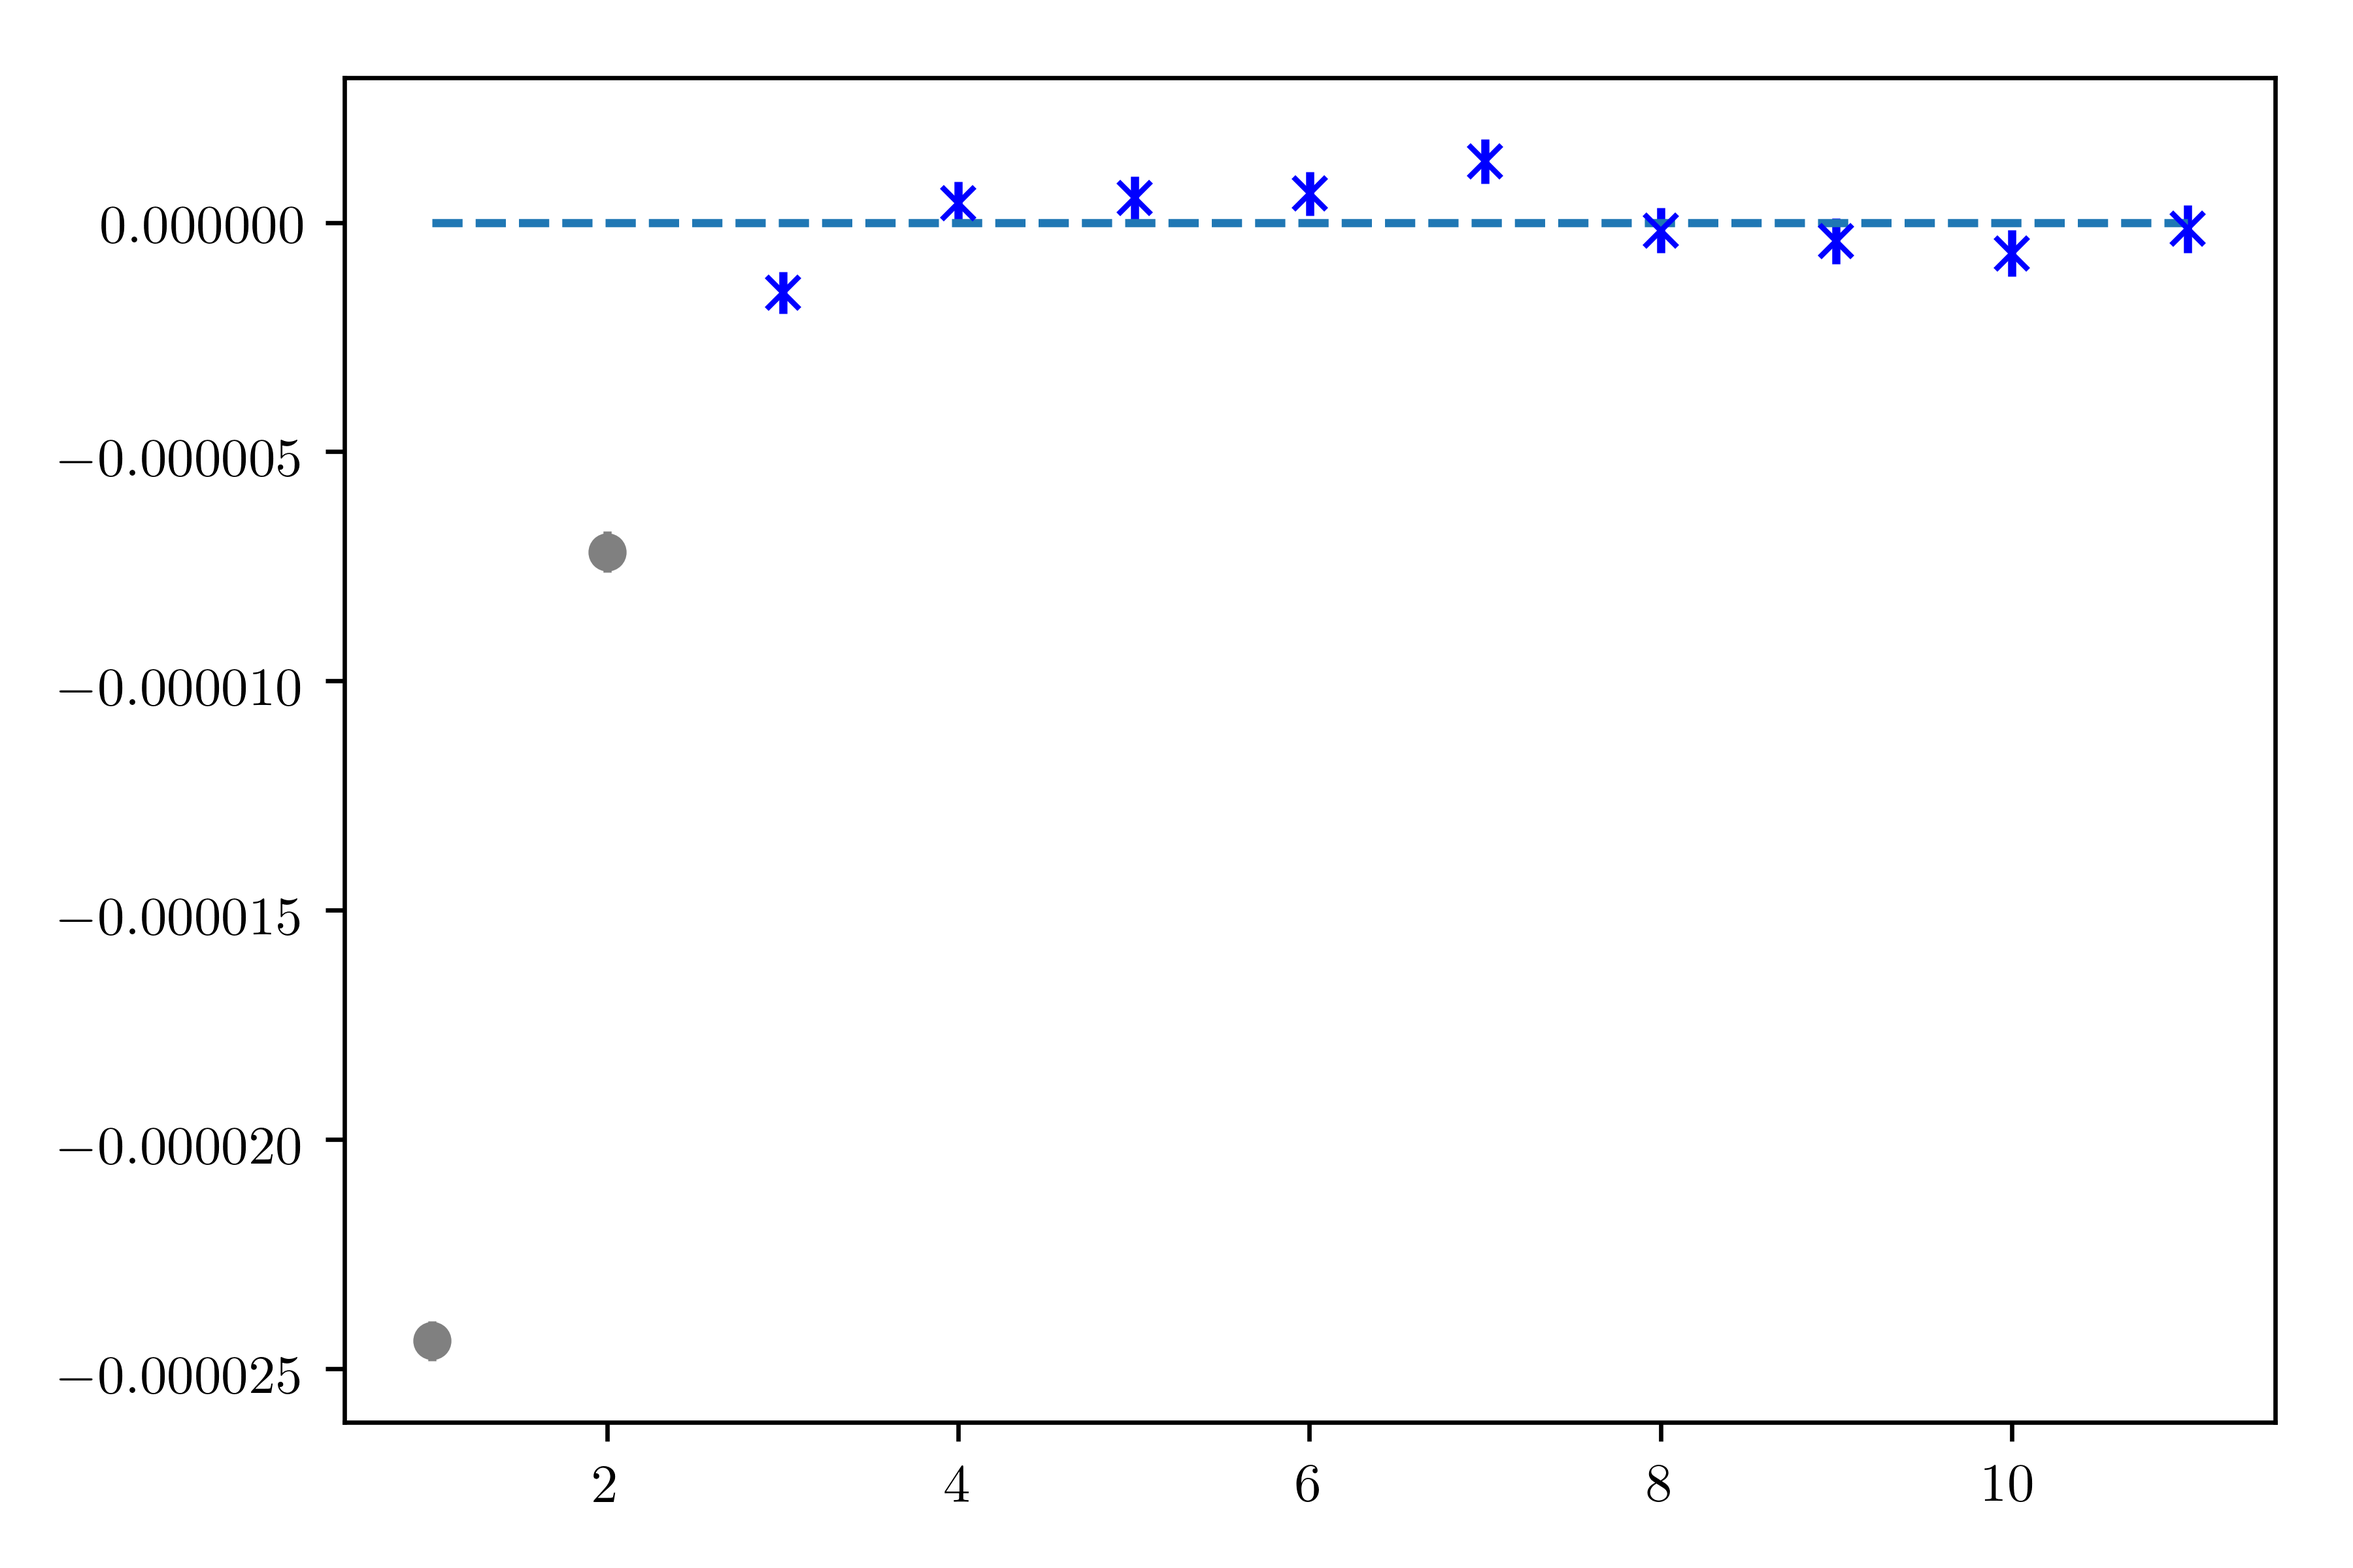
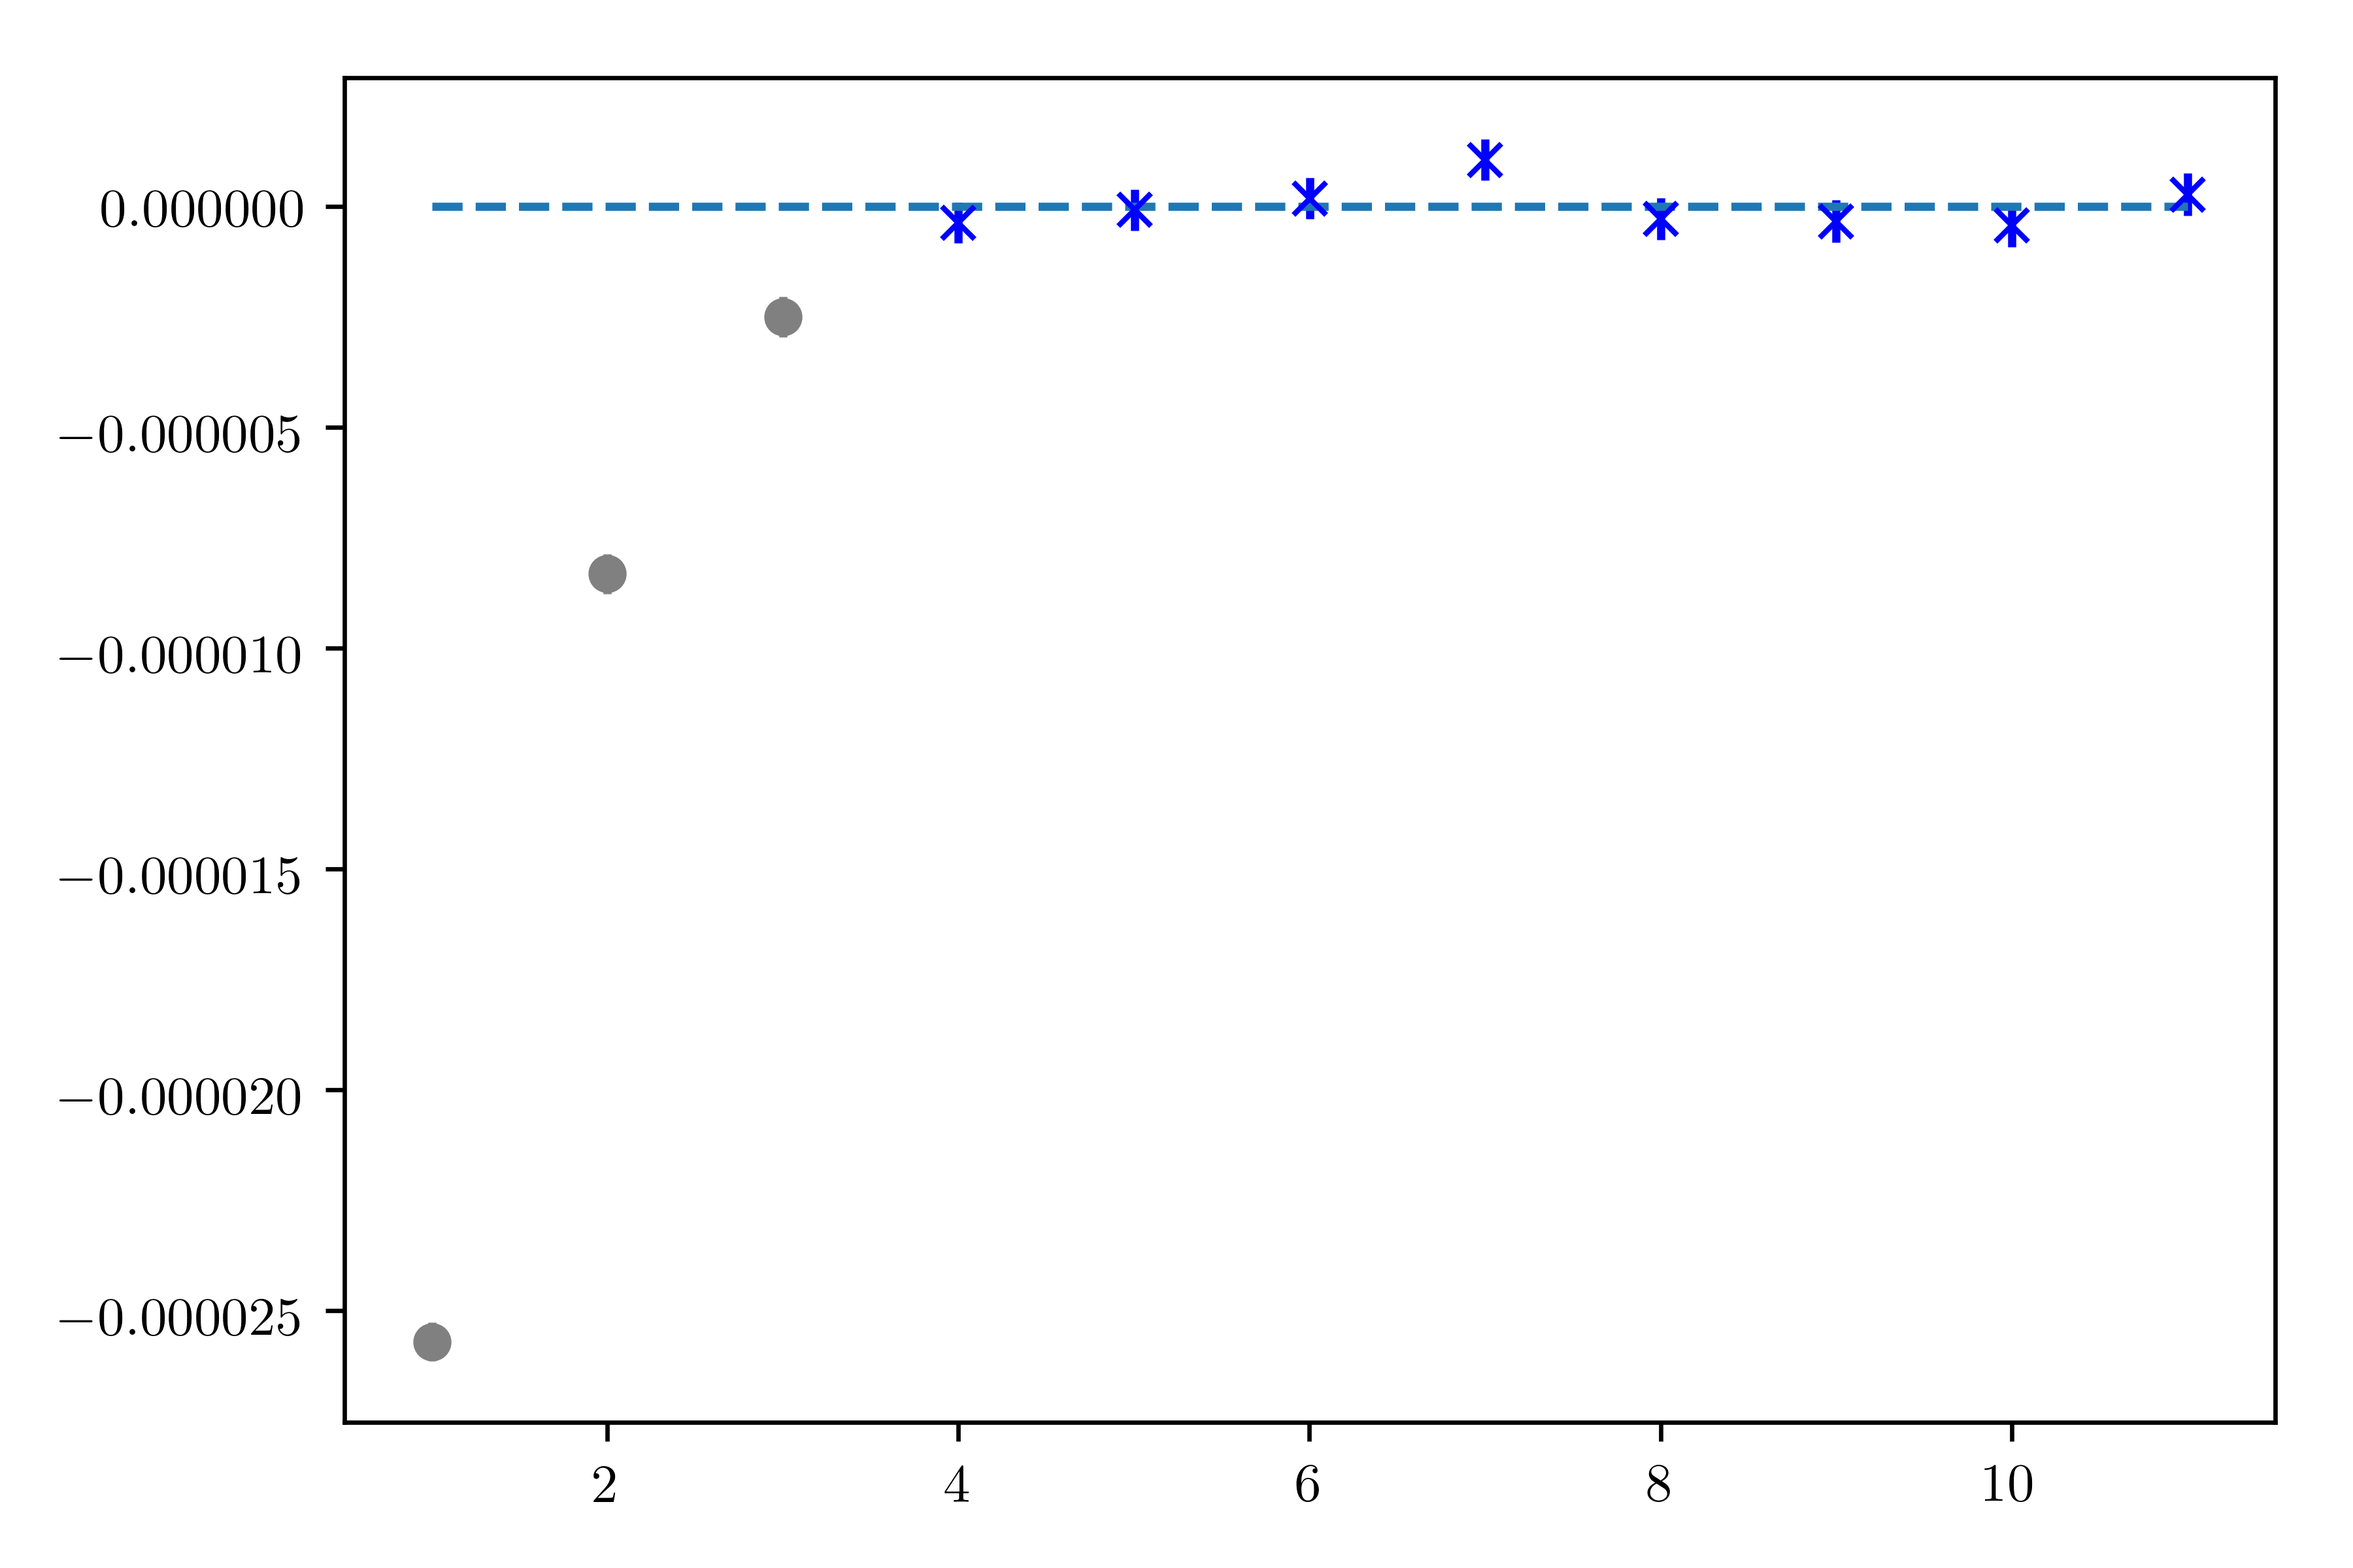
Added data from second lab day

diff --git a/mosfet_load_data_3.py b/mosfet_load_data_3.py
@@ -37,3 +37,45 @@ Vin_33 = ufloat_single_value(.204, 0.05, 'o', 'v')
 Vout_33 = ufloat_single_value(1.65, .2, 'o', 'v')
 
 A_sper_33 = - Vout_33 / Vin_33
+
+# 3.4
+
+R_in_cs_34 = res_parallel(R[2], R[4])
+R_out_cs_34 = res_parallel(r_0_12, R[5])
+
+V_in_34 = ufloat_single_value(.206, .050, 'o', 'v')
+V_out_34 = ufloat_single_value(1.27, .2, 'o', 'v')
+
+V_out_load_34 = ufloat_single_value(.728, .05, 'o', 'v')
+
+A_teor_34 = g_m_32 * res_parallel(R[5], r_0_12)
+
+R_in_34 = R[6] * V_out_34 / (V_in_34 * A_teor_34 - V_out_34)
+R_out_load_34 = R[7] * ((V_in_34 * A_teor_34 / V_out_load_34 ) - 1)
+
+# 3.5
+
+f_35 = ufloat(10**4, 0)
+
+V_in_35 = ufloat_single_value(.206, .05, 'o', 'v')
+V_out_35 = ufloat_single_value(.320, .05, 'o', 'v')
+
+A_exp_35 = - V_out_35 / V_in_35
+A_teor_35 = - g_m_32 * res_parallel(R[5], r_0_12) / (1 + g_m_32 * R[3])
+
+# 3.6
+
+f_36 = ufloat(10000, 0)
+
+V_in_36 = ufloat_single_value(.2, .05, 'o', 'v')
+V_out_36 = ufloat_single_value(.139, .05, 'o', 'v')
+V_in_noload_36 = ufloat_single_value(.194, .05, 'o', 'v')
+V_out_noload_36 = ufloat_single_value(.148, .05, 'o', 'v')
+
+A_exp_36 = V_out_36 / V_in_36
+A_exp_noload_36 = V_out_noload_36 / V_in_noload_36
+A_teor_noload_36 = g_m_32 * res_parallel(R[3], r_0_12) / (1 + g_m_32 * res_parallel(R[3], r_0_12))
+A_teor_36 = g_m_32 * res_parallel(R[3], res_parallel(r_0_12, R[7])) / (1 + g_m_32 * res_parallel(R[3], res_parallel(r_0_12, R[7])))
+
+R_out_36 = res_parallel(1/g_m_32, res_parallel(R[3], r_0_12))
+R_out_cd_36 = R[7] * (A_teor_noload_36 * V_in_36 / V_out_36 - 1)

diff --git a/mosfet_main.py b/mosfet_main.py
@@ -1,6 +1,8 @@
 from fits_multimeter_errors import *
-from mosfet_load_data_basics import *
-from mosfet_load_data_1 import *
-from mosfet_load_data_2 import *
-from mosfet_load_data_3 import *
 from mosfet_load_data_4 import *
+
+characteristic_12.full_plot('$V_{ds}$', '$I_d$', 'Punto 12: plot completo')
+characteristic_12.residuals_plot('Vds-Vteor', '$I_d$', 'Punto12: residui')
+
+characteristic_gs_13.full_plot('$V_{gs}$', '$Y$', 'Punto 13: plot completo')
+characteristic_gs_13.residuals_plot('$V_{gs}$', '$Y-Y_{model}$', 'Punto 13: residui')

diff --git a/mosfet_load_data_basics.py b/mosfet_load_data_basics.py
@@ -3,8 +3,8 @@ from fits_multimeter_errors import *
 
 # RESISTENZE
 
-R_arr = [680, 9.850, 389.3, 3.23, 783, 6.65]
-R_scale_arr = [6000, 60, 600, 6, 6000, 60]
+R_arr = [680, 9.850, 389.3, 3.23, 783, 6.65, 58.4, 5.61]
+R_scale_arr = [6000, 60, 600, 6, 6000, 60, 600, 60]
 
 R_arr = 1000 * np.array(R_arr)
 R_scale_arr = 1000 * np.array(R_scale_arr)
@@ -16,6 +16,8 @@ R_scale_arr = 1000 * np.array(R_scale_arr)
 # S = 3
 # 2 = 4 (la vogliamo da: )
 # d nuova = 5
+# i = 6
+# load = 7
 
 R = multimeter_error_array(R_arr, R_scale_arr, 'a', 'ohm')
 

diff --git a/mosfet_load_data_1.py b/mosfet_load_data_1.py
@@ -20,7 +20,7 @@ characteristic_12 = dataset(V_ds_arr_12, I_d_arr_12, 'v', 'a')
 characteristic_12.calculate_error(I_d_scale_arr_12, 'y', 'm')
 characteristic_12.calculate_error(V_ds_scale_arr_12, 'x', 'a')
 
-characteristic_12.point_ignore = np.array([0, 0, 0, 0, 0, 0,
+characteristic_12.point_ignore = np.array([1, 0, 0, 0, 0, 0,
                                      0, 0, 0, 0, 0])
 
 m_12, q_12 = characteristic_12.fit_uarray()

diff --git a/mosfet_load_data_2.py b/mosfet_load_data_2.py
@@ -27,6 +27,10 @@ V_out_22 = ufloat_single_value(1.31, .2, 'o', 'v')
 
 V_ds_sat_22 = V_gs_22 - V_TN_13
 
-A_vt_mis = V_out_22 / V_in_22
+A_vt_exp_22 = V_out_22 / V_in_22
+
+g_m_22 = #RICALCOLARE
+
+A_vt_teor_22 = - g_m_22 * res_parallel(r_0_12, R[1])
 
 I_d_22 = ufloat_single_value(.00022287, .001, 'm', 'a')

diff --git a/fits_multimeter_errors.py b/fits_multimeter_errors.py
@@ -339,3 +339,5 @@ def uarray_compatibility(x, y):
         compatibility[i] = ufloat_compatibility(x[i], y[i])
     return(compatibility)
         
+def res_parallel(r1, r2):
+    return(r1 * r2 / (r1 + r2))

diff --git a/mosfet_load_data_4.py b/mosfet_load_data_4.py
@@ -1,2 +1,3 @@
 from fits_multimeter_errors import *
 from mosfet_load_data_3 import *
+
